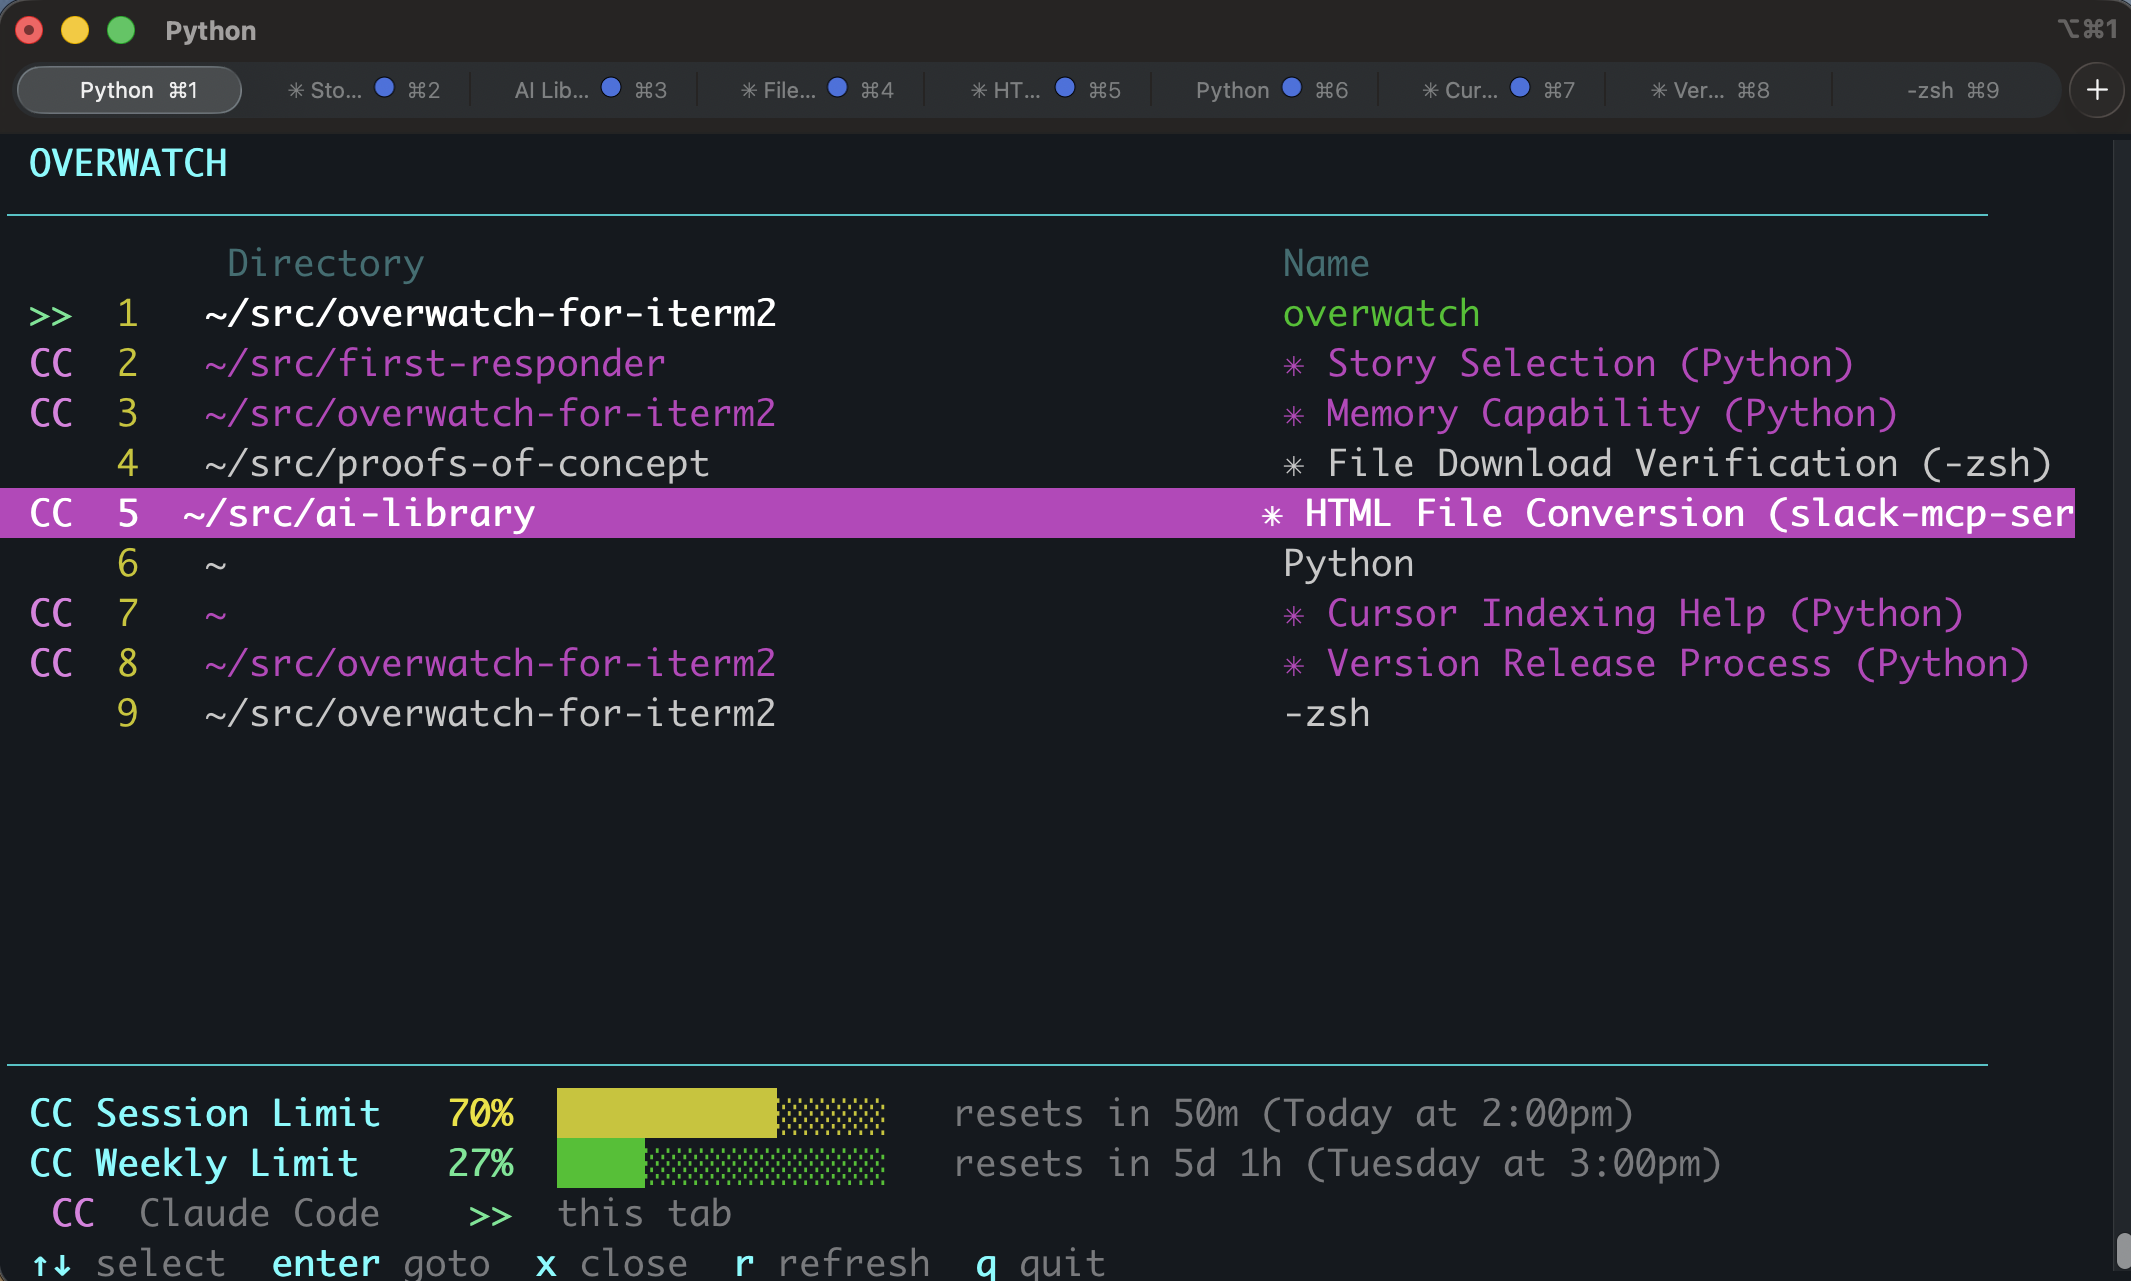
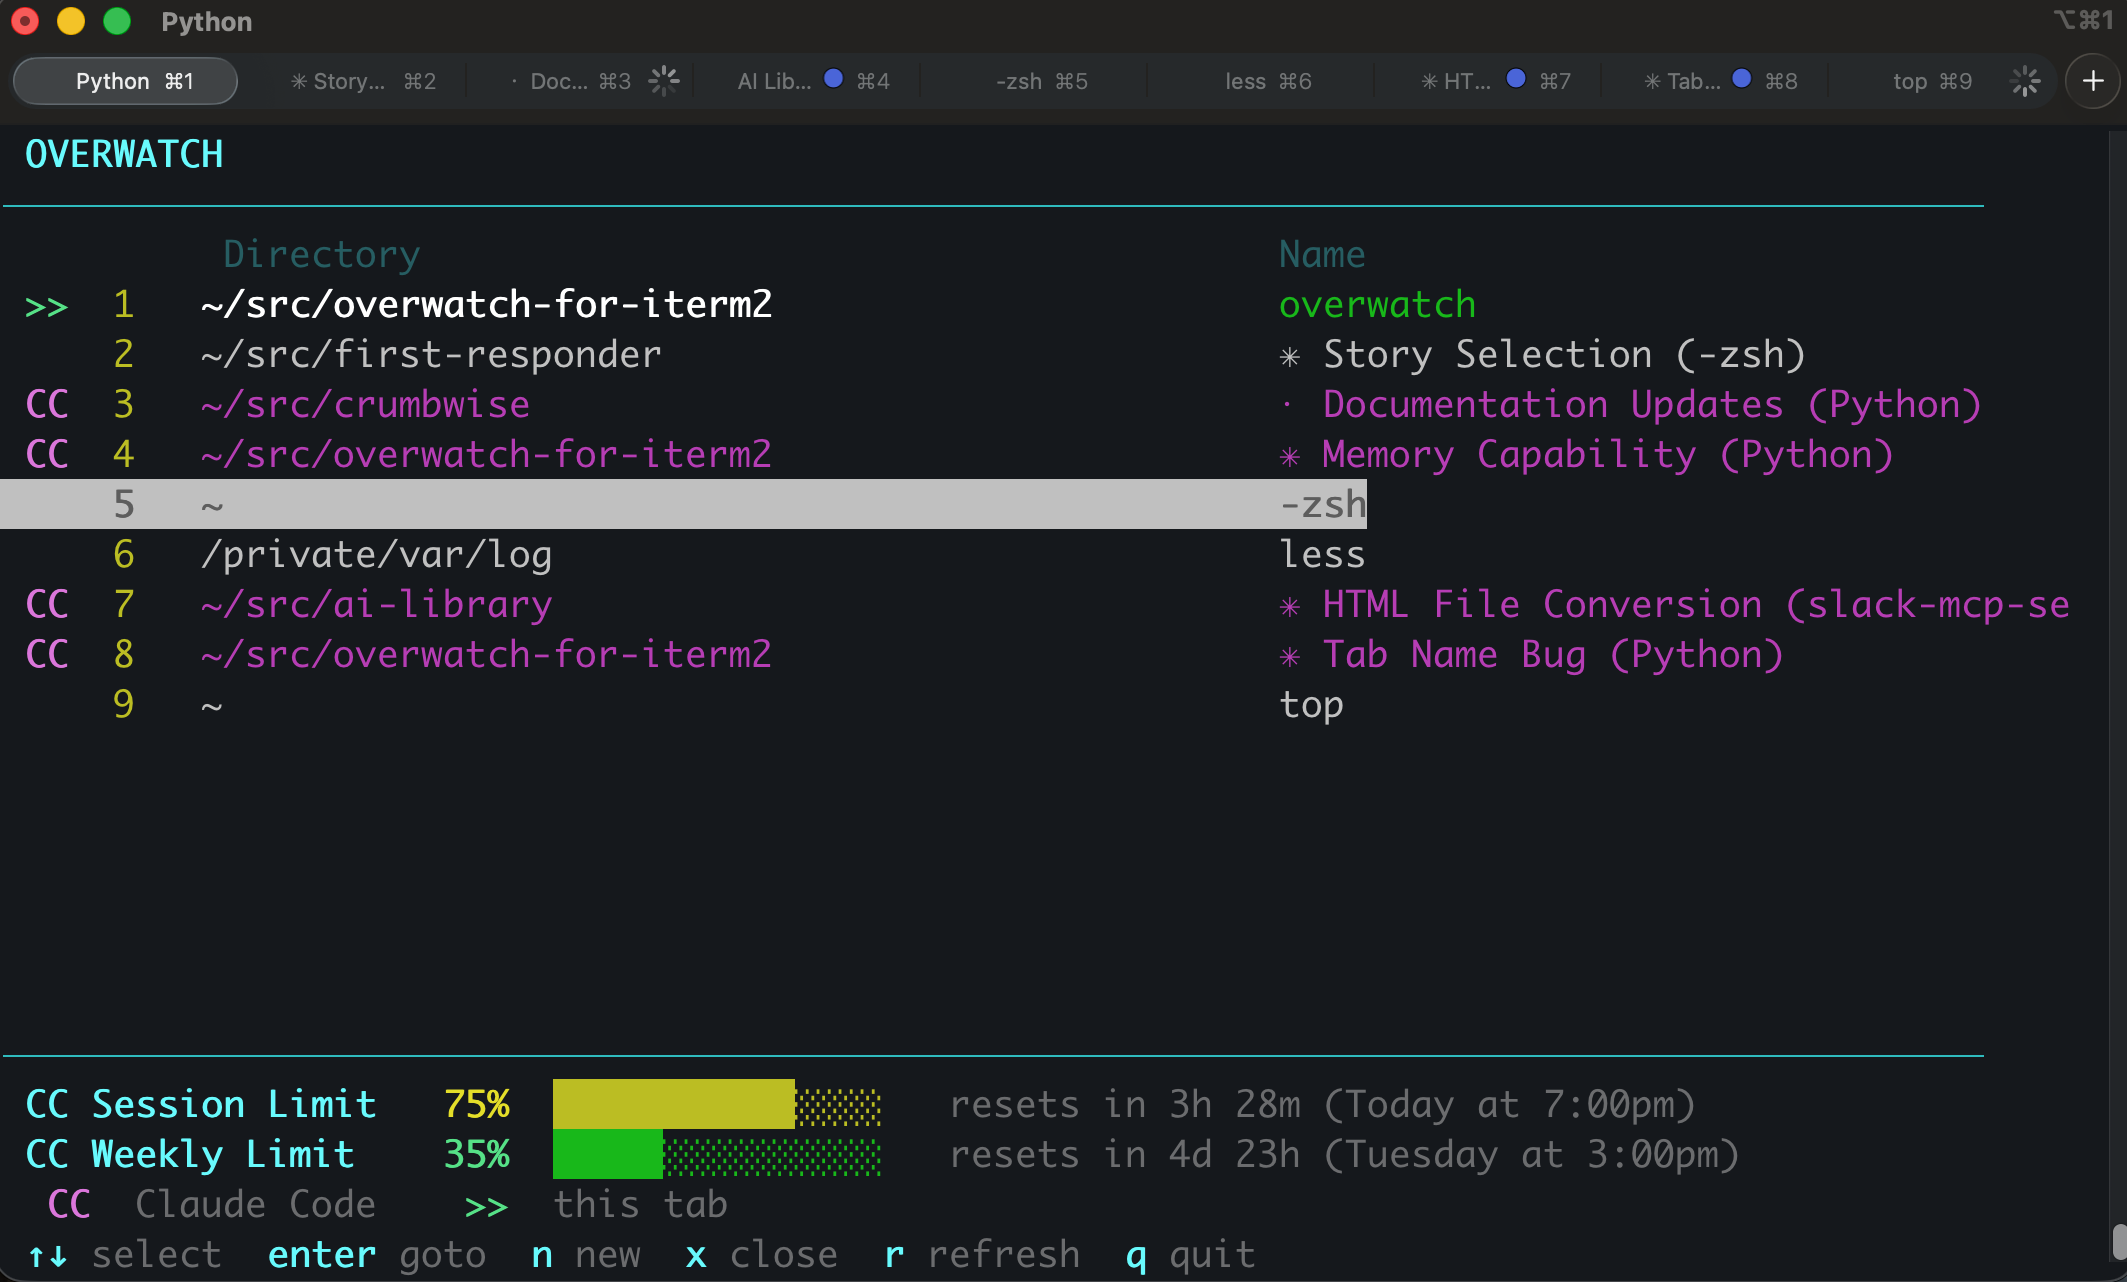
Fix selected row alignment, add lsof path fallback, add n key for new tab
- Fix 1-char name shift on selected/highlighted rows
- Detect working directory via lsof when shell integration is unavailable
- Handle AppleScript "missing value" for unset session properties
- Press n to open a new tab in the current window
- Update README and screenshot

diff --git a/README.md b/README.md
@@ -38,8 +38,9 @@ overwatch
 |-----|--------|
 | `↑` `↓` | Navigate tabs |
 | `Enter` or `g` | Switch to selected tab |
+| `n` | Open a new tab |
 | `x` | Close selected tab (asks for confirmation) |
-| `r` | Refresh tab list |
+| `r` | Refresh tab list and usage data |
 | `q` or `Esc` | Quit overwatch |
 
 ### Tab badges
